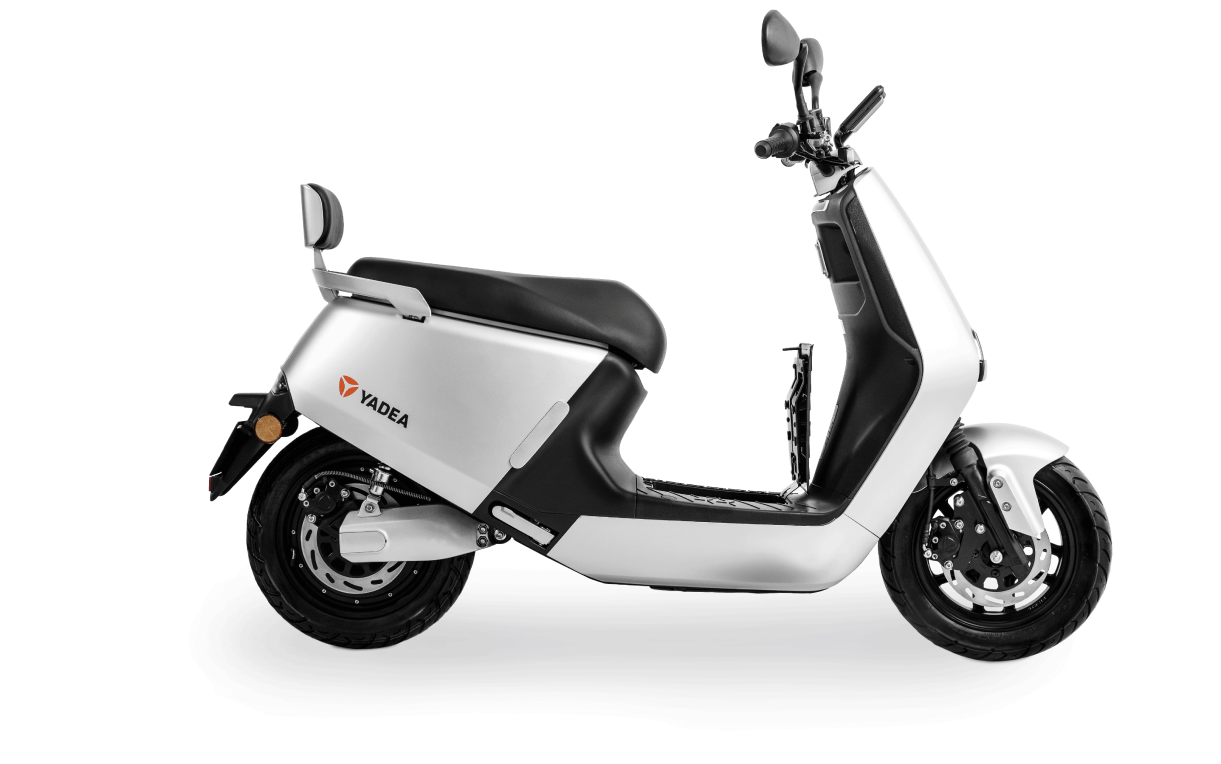
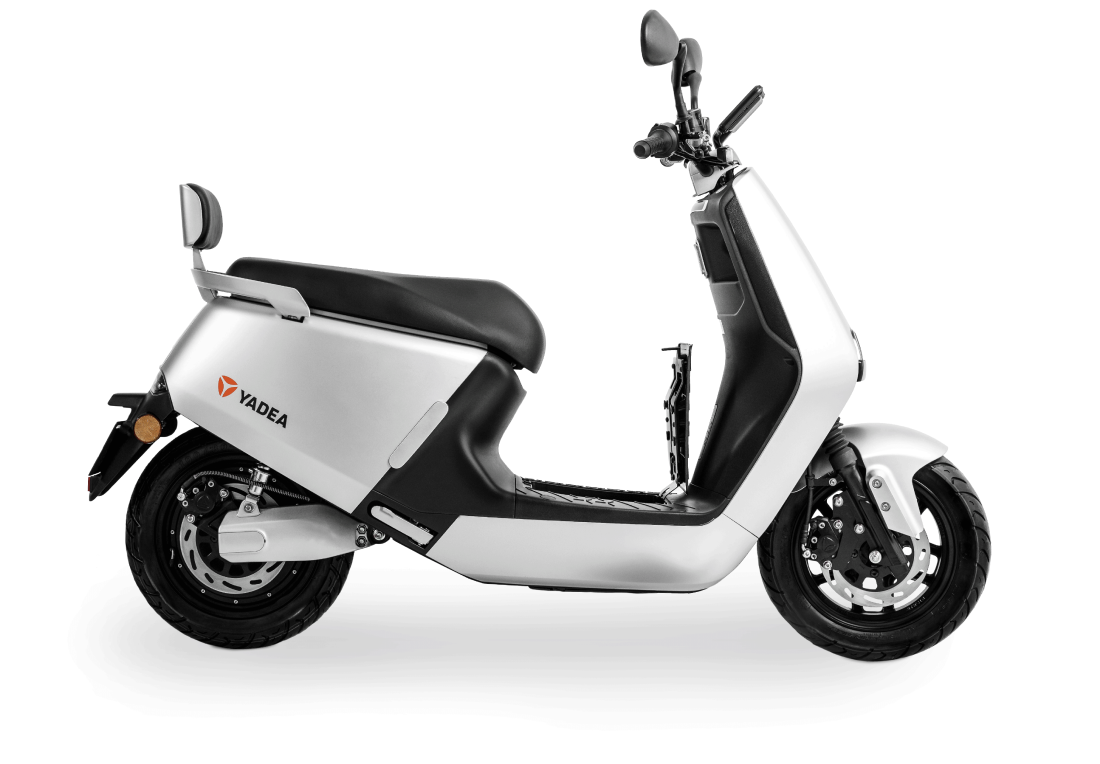
yadea parallax section made non-parallax

Changed region(s): [[0.0618, 0.0, 0.9273, 0.873]]

diff --git a/_includes/static/block-yadea-main.html b/_includes/static/block-yadea-main.html
@@ -137,27 +137,25 @@
   <div class="container">
 
     <div class="row align-items-center py-5 py-md-0">
-      <div class="col-md-5 offset-md-1 offset-xl-2 order-md-2">
+      <div class="col-md-6 col-lg-5 col-xl-4 offset-lg-1 order-md-2">
         <h2 class="headline-large">Built-in IoT Device</h2>
-        <p class="pr-lg-5">Keep your fleet connected with built-in IoT technology and cut out third-party devices.</p>
+        <p class="pr-5">Keep your fleet connected with built-in IoT technology and cut out third-party devices.</p>
       </div>
       <div class="col-md-6 col-lg-5">
-        <div id="yadea-iot" class="yadea-parallax">
-          <img id="yadea-iot__iot" class="rellax" data-rellax-speed="2" src="uploads/global/yadea-iot.png" srcset="uploads/global/yadea-iot@2x.png 2x" />
-          <img id="yadea-iot__front" src="uploads/global/yadea-front.png" srcset="uploads/global/yadea-front@2x.png 2x" />
+        <div id="yadea-iot">
+          <img id="yadea-iot__front" data-src="uploads/global/yadea-front.png" data-srcset="uploads/global/yadea-front@2x.png 2x" />
         </div>
       </div>
     </div>
 
     <div class="row pb-5 align-items-center">
-      <div class="col-md-5 col-lg-4">
+      <div class="col-md-6 col-lg-4 offset-lg-1">
         <h2 class="headline-large">Swappable Battery</h2>
-        <p class="pr-xl-5">Swap out the G5’s integrated, ultra-light battery with your master key - no other tools required.</p>
+        <p class="pr-5">Swap out the G5’s integrated, ultra-light battery with your master key - no other tools required.</p>
       </div>
-      <div class="col-md-7 offset-lg-1">
-        <div id="yadea-battery" class="yadea-parallax">
-          <img id="yadea-battery__battery" src="uploads/global/yadea-battery.png" srcset="uploads/global/yadea-battery@2x.png 2x" />
-          <img id="yadea-battery__side" class="rellax" data-rellax-zindex="0" data-rellax-horizontal-speed="2" data-rellax-vertical-scroll-axis="x" src="uploads/global/yadea-openbattery.png" srcset="uploads/global/yadea-openbattery@2x.png 2x" />
+      <div class="col-md-6 col-lg-7">
+        <div id="yadea-battery">
+          <img id="yadea-battery__side" data-src="uploads/global/yadea-openbattery.png" data-srcset="uploads/global/yadea-openbattery@2x.png 2x" />
         </div>
       </div>
     </div>

diff --git a/_sass/hp/_products.scss b/_sass/hp/_products.scss
@@ -456,6 +456,7 @@ svg.right-arrow {
 
 }
 
+/*
 .yadea-parallax {
   img {
     max-width: none;
@@ -481,6 +482,34 @@ svg.right-arrow {
     }
     &#yadea-battery__side {
       margin-left: 150px;
+    }
+  }
+}
+*/
+
+// yadea highlight section
+#highlights {
+  img {
+
+    &#yadea-iot__front {
+      max-width: 100%;
+      @include rwd(tablet-up) {
+        max-width: 140%;
+        transform: translateX(-20%);
+      }
+      @include rwd(desktop-up) {
+        transform: translateX(-12%);
+        max-width: none;
+      }
+    }
+    &#yadea-battery__side {
+      max-width: 150%;
+      @include rwd(tablet-up) {
+        max-width: 195%;
+      }
+      @include rwd(desktop-up) {
+        max-width: none;
+      }
     }
   }
 }
